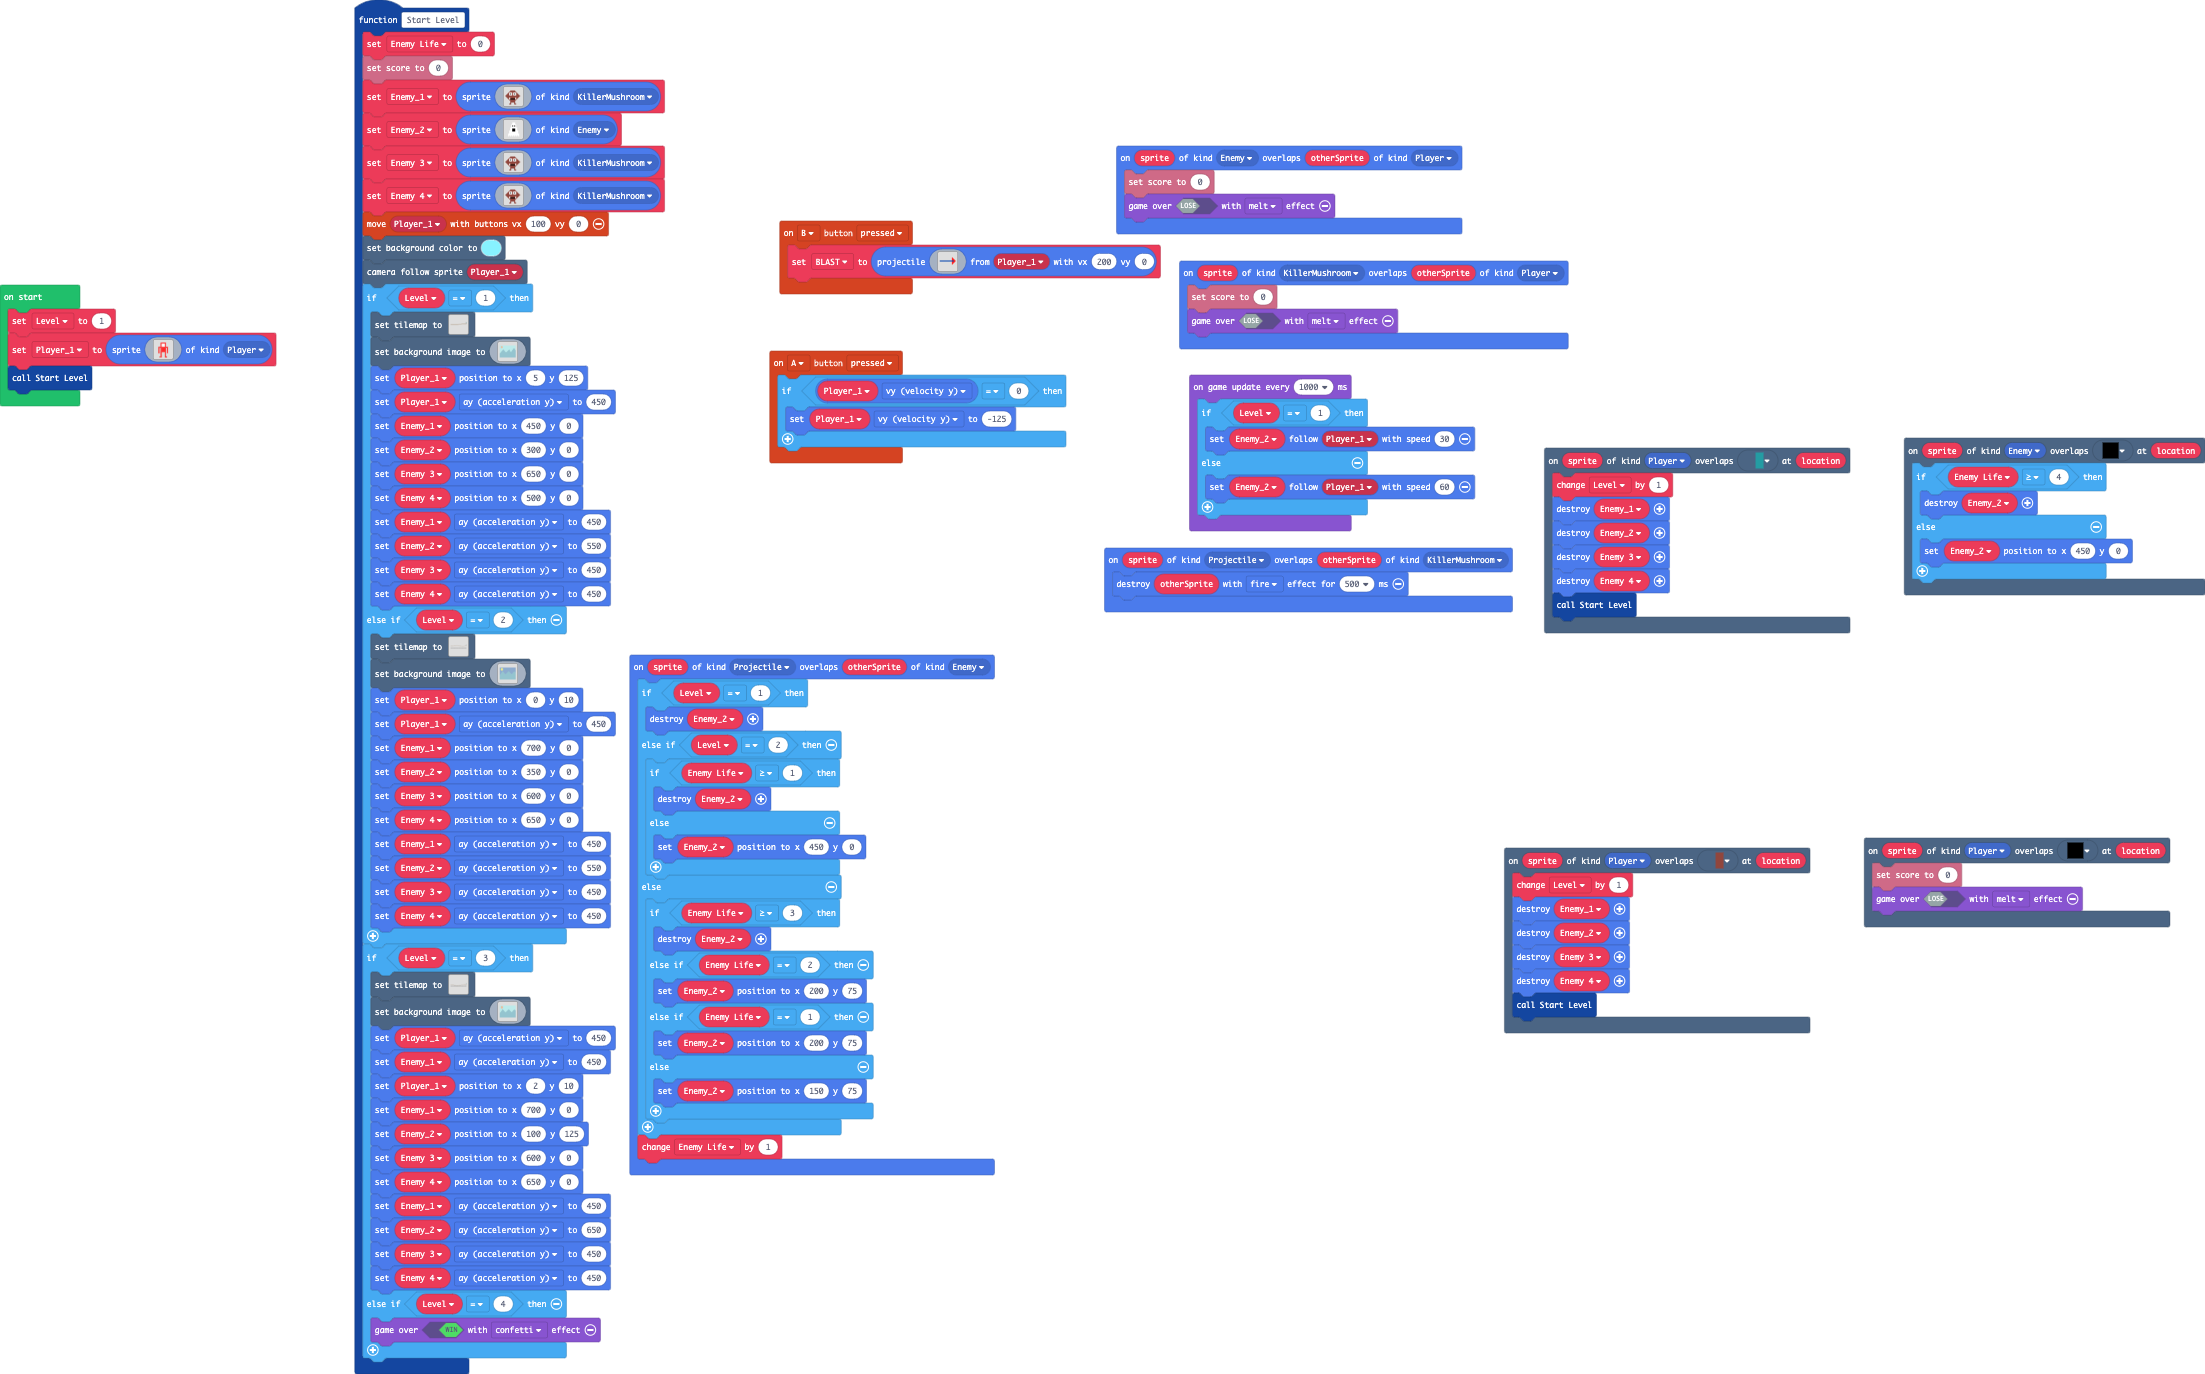
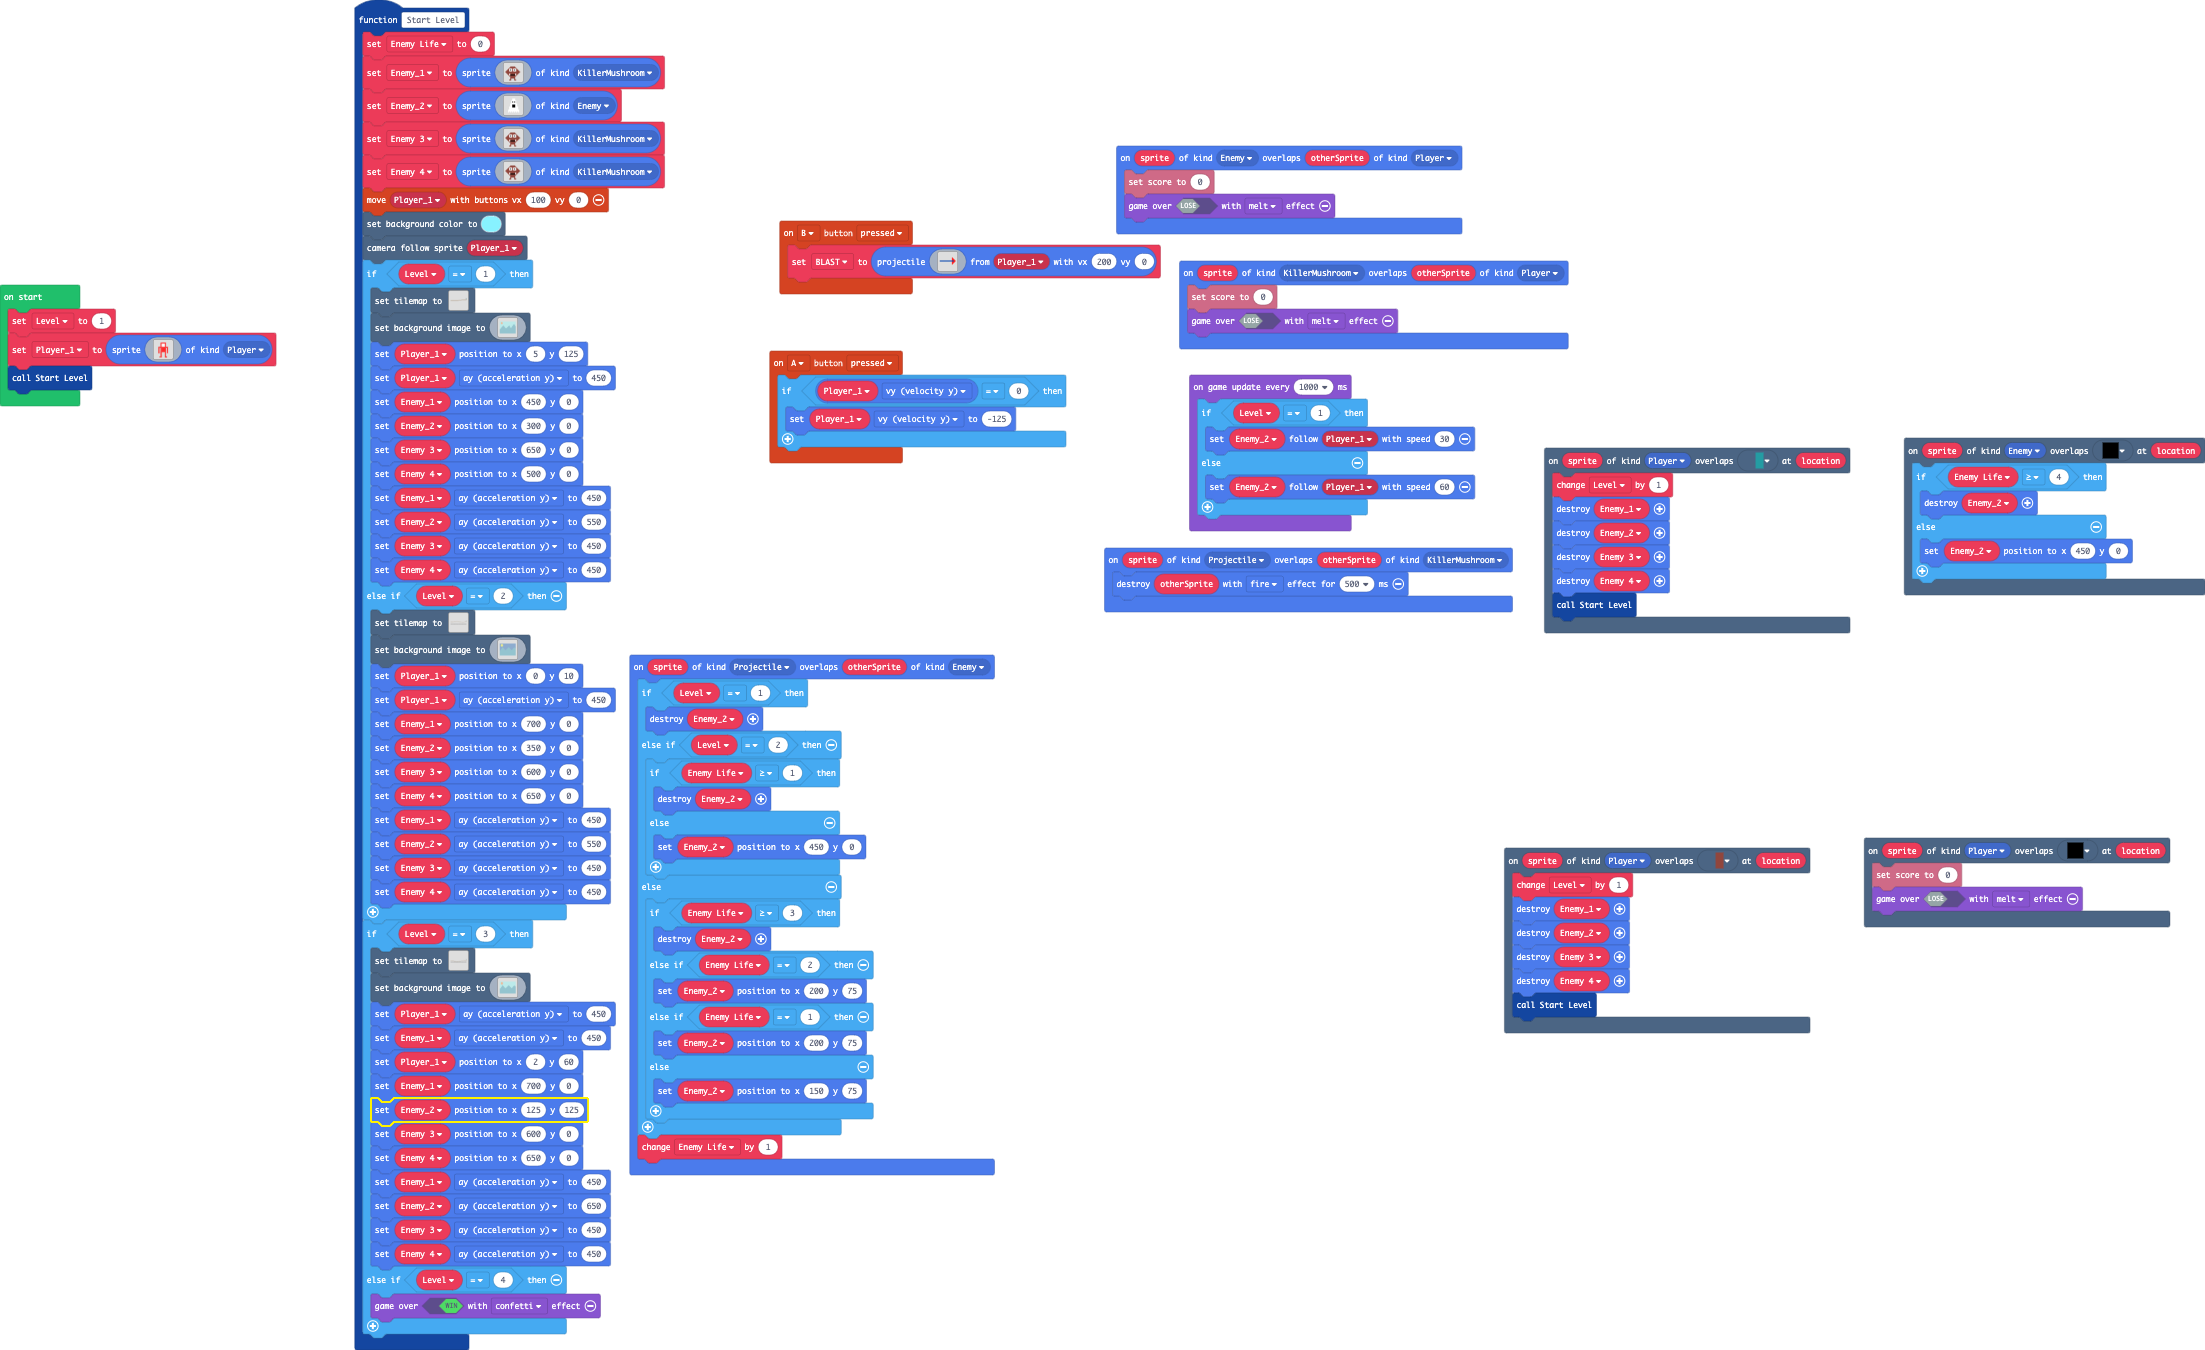
Update main.blocks, main.ts

diff --git a/main.ts b/main.ts
@@ -375,7 +375,6 @@ scene.onOverlapTile(SpriteKind.Player, myTiles.tile10, function (sprite, locatio
 })
 function Start_Level () {
     Enemy_Life = 0
-    info.setScore(0)
     Enemy_1 = sprites.create(img`
 . . . . . . . . . . . . . . . . 
 . . . . . . . . . . . . . . . . 
@@ -912,9 +911,9 @@ e e e e e e e e e e e e e e e .
 `)
         Player_1.ay = 450
         Enemy_1.ay = 450
-        Player_1.setPosition(2, 10)
+        Player_1.setPosition(2, 60)
         Enemy_1.setPosition(700, 0)
-        Enemy_2.setPosition(100, 125)
+        Enemy_2.setPosition(125, 125)
         Enemy_3.setPosition(600, 0)
         Enemy_4.setPosition(650, 0)
         Enemy_1.ay = 450
